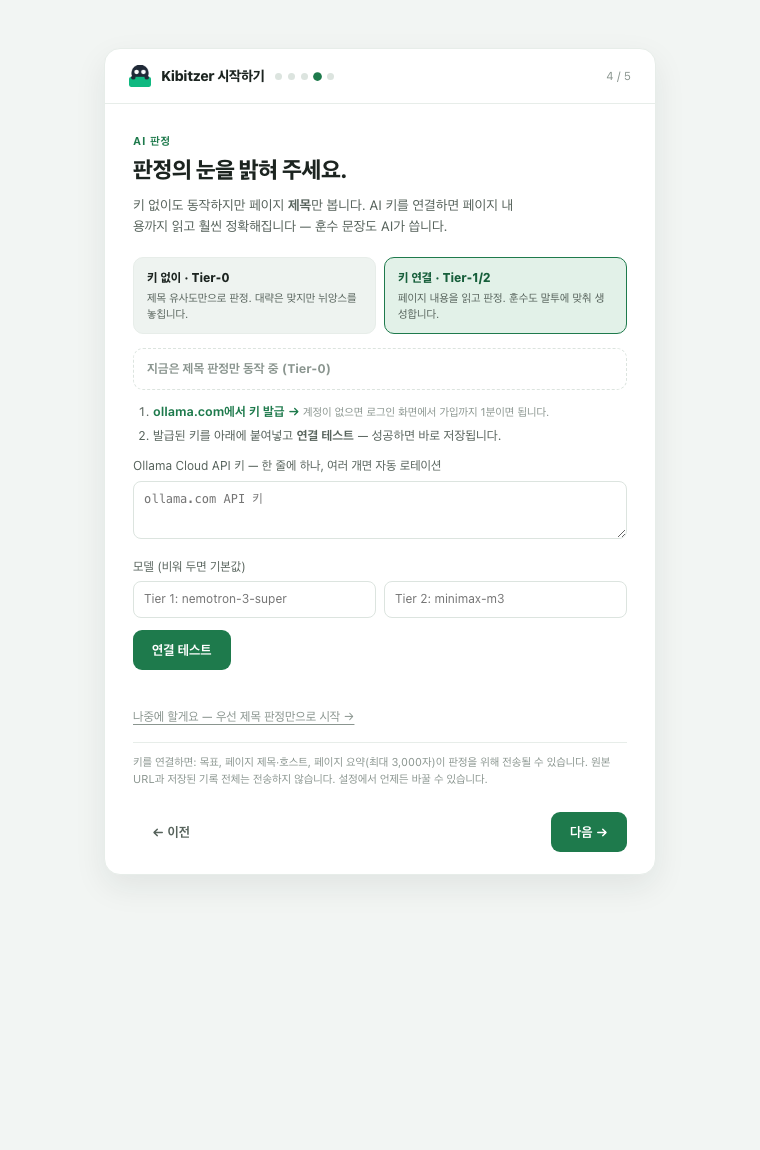
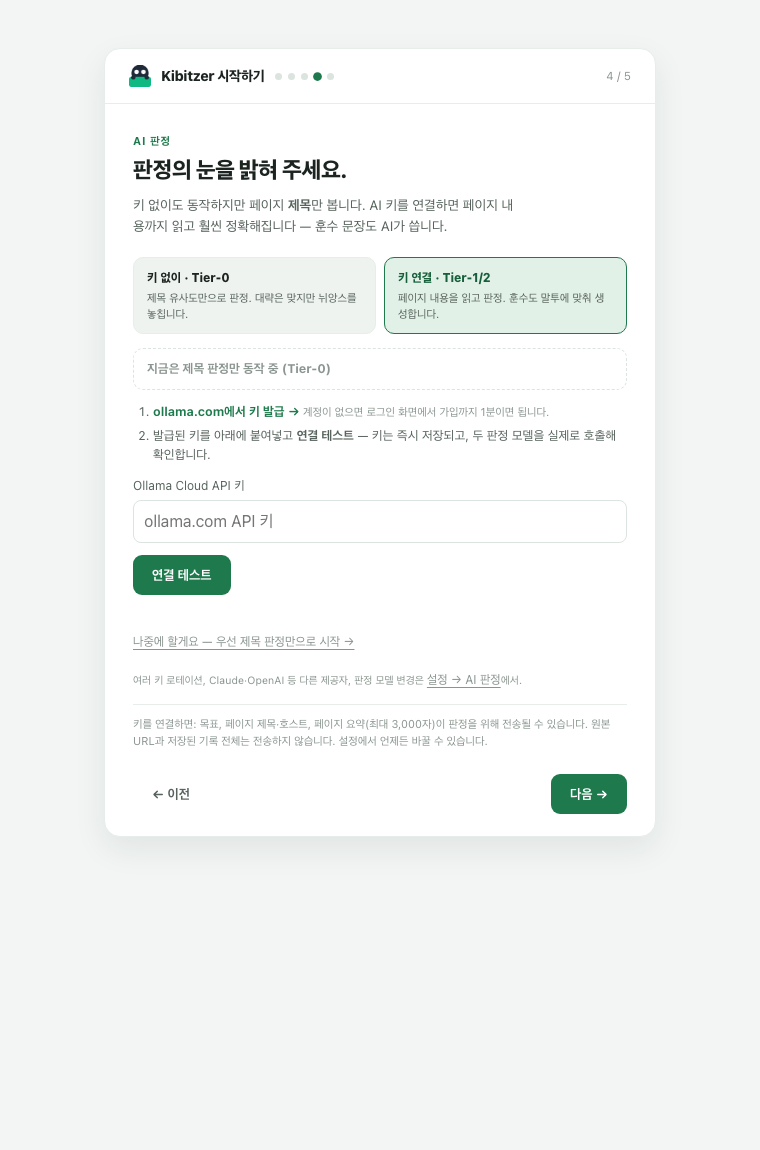
feat(extension-next): wire the onboarding AI step to the PR #158 provider API
Merge feature/provider-settings and replace the legacy set-ollama/test-ollama
calls: add-provider-key persists the pasted key immediately, 연결 테스트 runs
test-route against the ACTUAL tier1/tier2 routes, and rotation / other
providers / model choice defer to the new options AI pane.

diff --git a/apps/extension-next/src/onboarding/onboarding.ts b/apps/extension-next/src/onboarding/onboarding.ts
@@ -11,14 +11,18 @@ import { PERSONAS, PERSONA_ORDER, PERSONA_DEFAULT } from "../lib/personas.data.t
 interface WizardState {
   persona?: string
   judgeEnabled?: boolean
-  ollama?: { apiKeys?: string[]; tier1Model?: string; tier2Model?: string }
 }
 
-interface OllamaTestResult {
+interface JudgeView {
+  routes?: {
+    tier1?: { provider?: string; model?: string }
+    tier2?: { provider?: string; model?: string }
+  }
+}
+
+interface RouteTestResult {
   ok: boolean
-  tier1?: string
-  tier2?: string
-  error?: string
+  detail: string
 }
 
 const $ = <T extends HTMLElement>(id: string): T => document.getElementById(id) as T
@@ -55,7 +59,7 @@ for (let i = 0; i < 5; i++) {
 function go(i: number): void {
   const leaving = cur
   cur = Math.max(0, Math.min(steps.length - 1, i))
-  if (leaving === 3 && cur !== 3) void saveKeysIfEdited() // pasted a key, hit 다음 — keep it
+  if (leaving === 3 && cur !== 3) void saveEnteredKey() // pasted a key, hit 다음 — keep it
   steps.forEach((s, j) => (s.hidden = j !== cur))
   ;[...dots.children].forEach((d, j) =>
     j === cur ? d.setAttribute("aria-current", "step") : d.removeAttribute("aria-current"),
@@ -166,48 +170,40 @@ $("tryToast").addEventListener("click", () =>
   firePracticeToast("연습 훈수입니다. 진짜 훈수도 정확히 이 자리에, 이렇게 옵니다.", "답하거나, 닫거나, 그냥 두면 사라집니다"),
 )
 
-// --- step 4: Ollama Cloud connect (the options page's pane, inlined) ---------------
+// --- step 4: Ollama Cloud connect (PR #158 provider API, inlined) ------------------
 
 const aiStatus = $("aiStatus")
 const aiStatusText = $("aiStatusText")
-const keysInput = $<HTMLTextAreaElement>("keys")
-const tier1Input = $<HTMLInputElement>("tier1")
-const tier2Input = $<HTMLInputElement>("tier2")
+const keyInput = $<HTMLInputElement>("key")
 const testKeys = $<HTMLButtonElement>("testKeys")
 const keysResult = $("keysResult")
-let savedSnapshot = "" // last state written via set-ollama, to skip no-op saves
-
-const enteredKeys = (): string[] =>
-  keysInput.value.split("\n").map((k) => k.trim()).filter(Boolean)
-const keysSnapshot = (): string => JSON.stringify([enteredKeys(), tier1Input.value, tier2Input.value])
+const addedKeys = new Set<string>() // key values already saved this session (no double-add)
 
 async function refreshAiStatus(): Promise<void> {
   const st = await send<WizardState>({ type: "get-state" })
   if (!st) return
-  const on = Boolean(st.judgeEnabled ?? st.ollama?.apiKeys?.length)
+  const on = Boolean(st.judgeEnabled)
   aiStatus.classList.toggle("on", on)
   aiStatusText.textContent = on
     ? "AI 판정 연결됨 ✓ — 페이지 내용까지 읽고 판정합니다"
     : "지금은 제목 판정만 동작 중 (Tier-0)"
 }
 
-async function saveKeys(): Promise<void> {
-  await send({
-    type: "set-ollama",
-    apiKeys: enteredKeys(),
-    tier1Model: tier1Input.value,
-    tier2Model: tier2Input.value,
-  })
-  savedSnapshot = keysSnapshot()
-  void refreshAiStatus()
-}
-
-async function saveKeysIfEdited(): Promise<void> {
-  if (enteredKeys().length && keysSnapshot() !== savedSnapshot) await saveKeys()
+// add-provider-key persists immediately (options-page semantics); rotation/extra
+// providers stay in the options UI. Returns false when there is nothing to save.
+async function saveEnteredKey(): Promise<boolean> {
+  const value = keyInput.value.trim()
+  if (!value) return false
+  if (!addedKeys.has(value)) {
+    await send({ type: "add-provider-key", provider: "ollama", name: "", value })
+    addedKeys.add(value)
+    void refreshAiStatus()
+  }
+  return true
 }
 
 testKeys.addEventListener("click", async () => {
-  if (!enteredKeys().length) {
+  if (!(await saveEnteredKey())) {
     keysResult.className = "result err"
     keysResult.textContent = "키가 비어 있어요. 위 링크에서 발급한 키를 붙여넣어 주세요."
     return
@@ -215,21 +211,35 @@ testKeys.addEventListener("click", async () => {
   keysResult.className = "result"
   keysResult.textContent = "테스트 중… (첫 호출은 느릴 수 있어요)"
   testKeys.disabled = true
-  const r = await send<OllamaTestResult>({
-    type: "test-ollama",
-    apiKeys: enteredKeys(),
-    tier1Model: tier1Input.value,
-    tier2Model: tier2Input.value,
-  })
+  // Exercise the ACTUAL routes (provider+model per tier) the pipeline will use.
+  const judge = await send<JudgeView>({ type: "get-judge-settings" })
+  const tiers = [
+    { tier: "tier1", route: judge?.routes?.tier1 },
+    { tier: "tier2", route: judge?.routes?.tier2 },
+  ]
+  const [r1, r2] = await Promise.all(
+    tiers.map(({ tier, route }) =>
+      send<RouteTestResult>({
+        type: "test-route",
+        tier,
+        provider: route?.provider ?? "ollama",
+        model: route?.model ?? "",
+      }),
+    ),
+  )
   testKeys.disabled = false
-  if (r?.ok) {
-    await saveKeys()
+  if (r1?.ok && r2?.ok) {
     keysResult.className = "result ok"
-    keysResult.textContent = `연결 OK · ${r.tier1} · ${r.tier2} — 저장됐습니다 ✓`
+    keysResult.textContent = `연결 OK — Tier 1 ${r1.detail} · Tier 2 ${r2.detail}`
   } else {
+    const failures = [r1?.ok ? null : `Tier 1: ${r1?.detail ?? "응답 없음"}`, r2?.ok ? null : `Tier 2: ${r2?.detail ?? "응답 없음"}`]
     keysResult.className = "result err"
-    keysResult.textContent = `실패: ${r?.error ?? "응답 없음"}`
+    keysResult.textContent = `실패 — ${failures.filter(Boolean).join(" · ")}`
   }
+})
+
+$("openSettingsAi").addEventListener("click", () => {
+  if (extension) void chrome.runtime.openOptionsPage()
 })
 
 const skip = $("skip")
@@ -346,12 +356,6 @@ window.addEventListener("focus", () => {
 void (async () => {
   const st = await send<WizardState>({ type: "get-state" })
   if (st?.persona && PERSONAS[st.persona]) currentPersona = st.persona
-  if (st?.ollama) {
-    keysInput.value = (st.ollama.apiKeys ?? []).join("\n")
-    tier1Input.value = st.ollama.tier1Model ?? ""
-    tier2Input.value = st.ollama.tier2Model ?? ""
-    savedSnapshot = keysSnapshot()
-  }
   renderPersonas()
   $("miniToastMsg").textContent = demoNagMessage()
 })()

diff --git a/apps/extension-next/src/onboarding/onboarding.html b/apps/extension-next/src/onboarding/onboarding.html
@@ -420,24 +420,18 @@
             <div class="aistatus" id="aiStatus"><span id="aiStatusText">지금은 제목 판정만 동작 중 (Tier-0)</span></div>
             <ol class="keysteps">
               <li><a class="ext" href="https://ollama.com/settings/keys" target="_blank" rel="noreferrer">ollama.com에서 키 발급 →</a> <small>계정이 없으면 로그인 화면에서 가입까지 1분이면 됩니다.</small></li>
-              <li>발급된 키를 아래에 붙여넣고 <b>연결 테스트</b> — 성공하면 바로 저장됩니다.</li>
+              <li>발급된 키를 아래에 붙여넣고 <b>연결 테스트</b> — 키는 즉시 저장되고, 두 판정 모델을 실제로 호출해 확인합니다.</li>
             </ol>
             <label class="field">
-              <span>Ollama Cloud API 키 — 한 줄에 하나, 여러 개면 자동 로테이션</span>
-              <textarea id="keys" rows="2" placeholder="ollama.com API 키"></textarea>
-            </label>
-            <label class="field">
-              <span>모델 (비워 두면 기본값)</span>
-              <span class="two">
-                <input type="text" id="tier1" placeholder="Tier 1: nemotron-3-super" />
-                <input type="text" id="tier2" placeholder="Tier 2: minimax-m3" />
-              </span>
+              <span>Ollama Cloud API 키</span>
+              <input type="password" id="key" placeholder="ollama.com API 키" autocomplete="off" />
             </label>
             <div class="btnrow">
               <button class="btn primary" id="testKeys">연결 테스트</button>
             </div>
             <p class="result" id="keysResult"></p>
             <span class="skip" id="skip" role="button" tabindex="0">나중에 할게요 — 우선 제목 판정만으로 시작 →</span>
+            <p class="footnote">여러 키 로테이션, Claude·OpenAI 등 다른 제공자, 판정 모델 변경은 <span class="skip" id="openSettingsAi" role="button" tabindex="0">설정 → AI 판정</span>에서.</p>
             <p class="privacy">키를 연결하면: 목표, 페이지 제목·호스트, 페이지 요약(최대 3,000자)이 판정을 위해 전송될 수 있습니다. 원본 URL과 저장된 기록 전체는 전송하지 않습니다. 설정에서 언제든 바꿀 수 있습니다.</p>
           </section>
 
